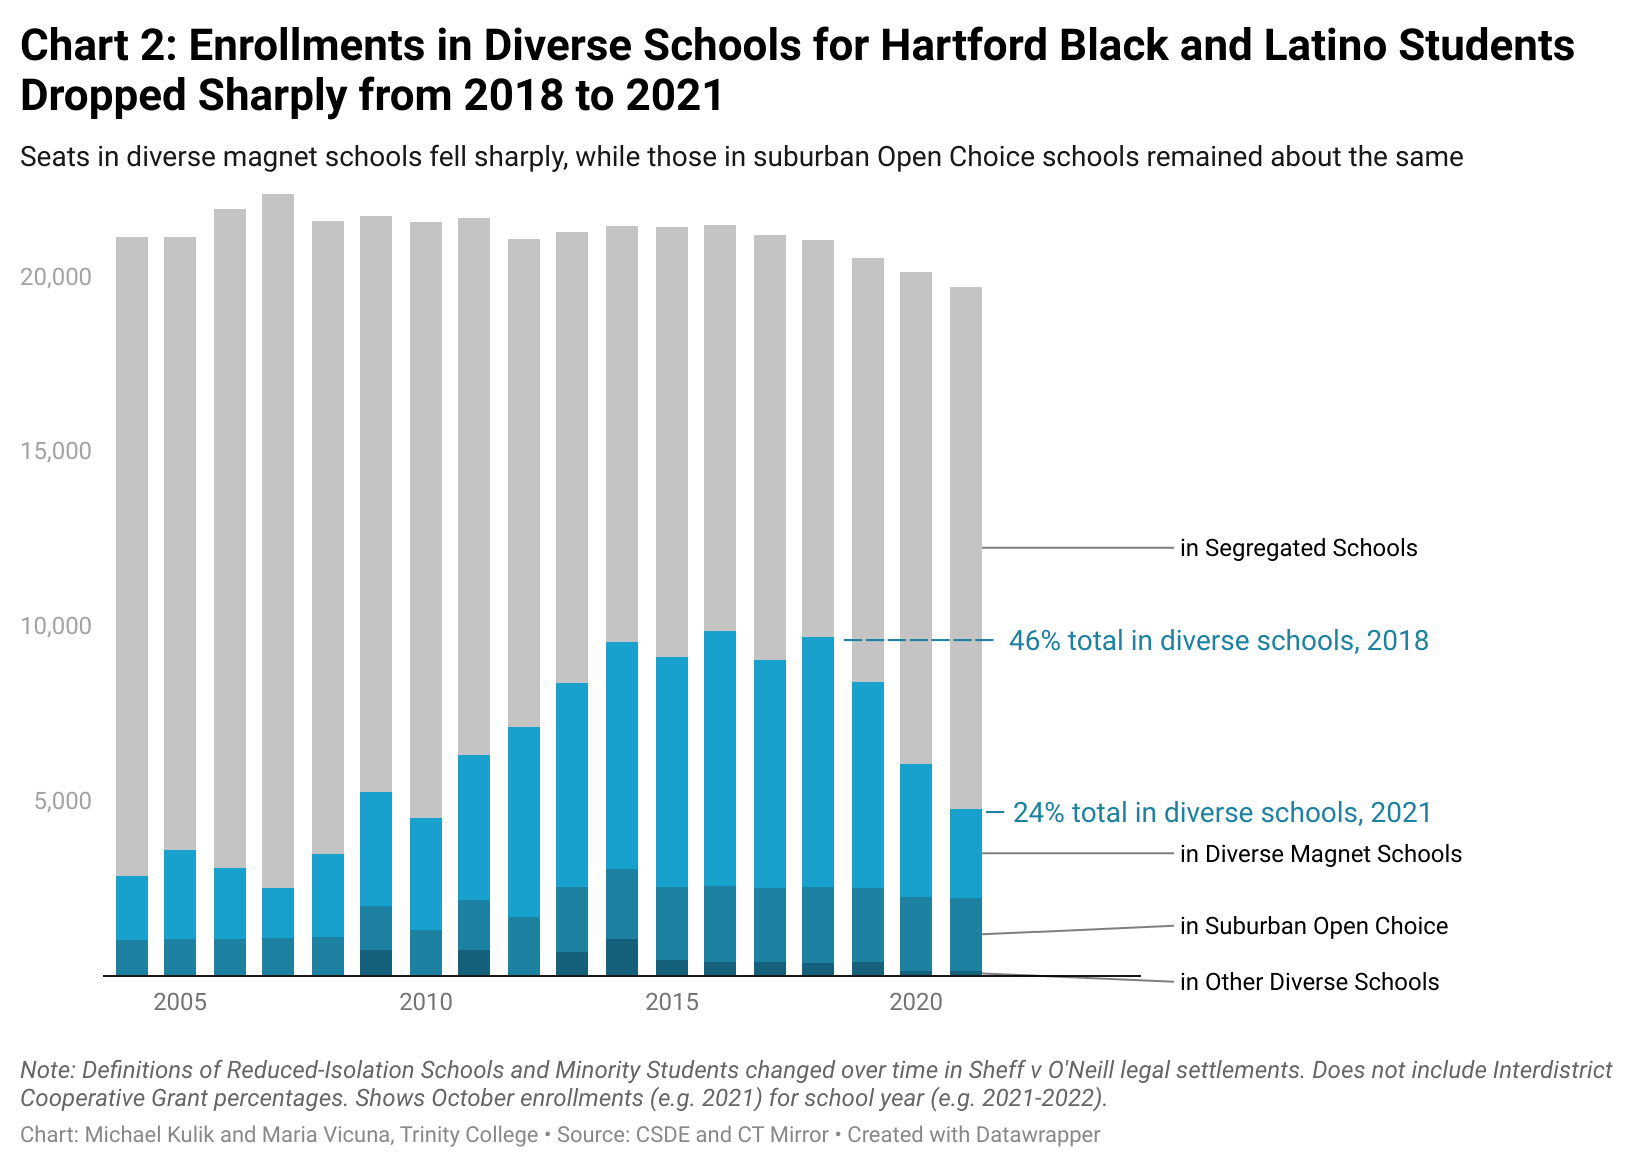
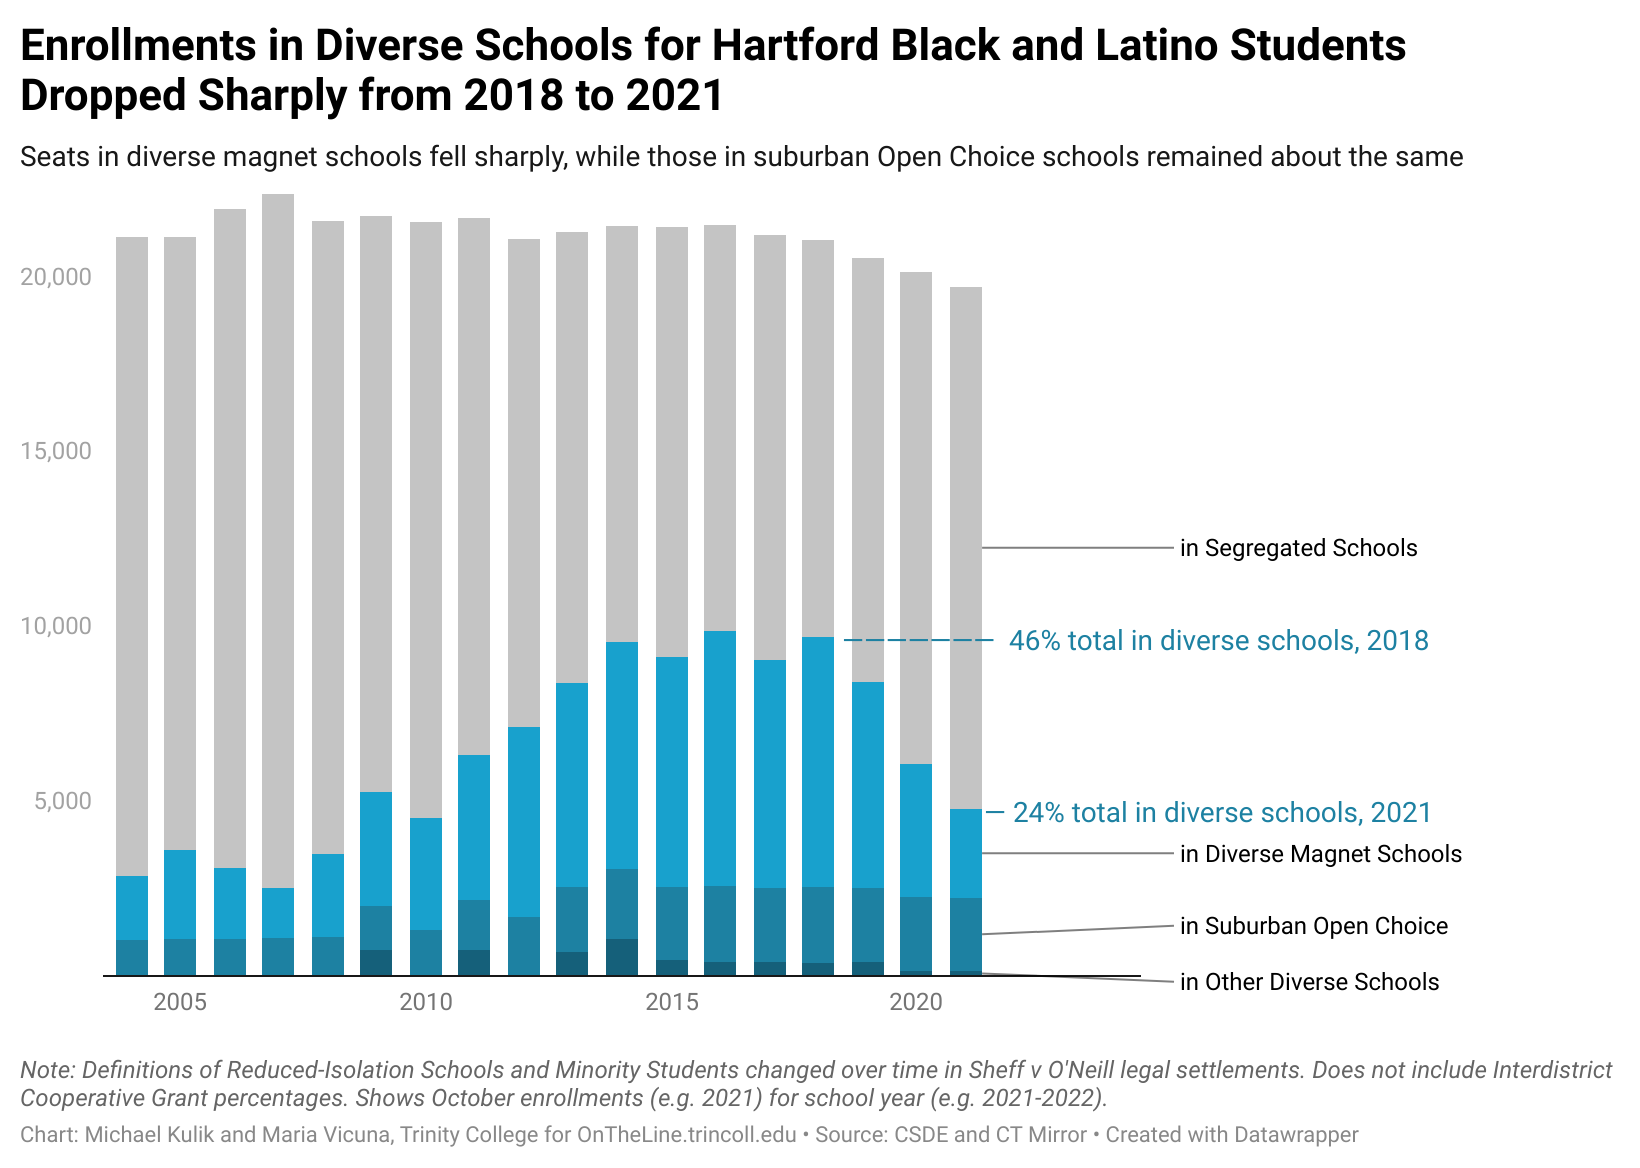
updated PNGs and links

Changed region(s): [[0.0, 0.0, 0.964, 0.0616], [0.3421, 0.9555, 0.8396, 0.9863]]

diff --git a/README.md b/README.md
@@ -1,10 +1,13 @@
 # otl-sheff-data
 Sheff v O'Neill school integration public data for OnTheLine.trincoll.edu book
 
+Learn more at <https://OnTheLine.trincoll.edu>
+
+To re-use visualizations (and credit the authors), go to the [Datawrapper River](https://app.datawrapper.de/river/) and search "ontheline" for items related to the [On The Line](https://ontheline.trincoll.edu) book-in-progress. To learn how to use the free Datawrapper data visualization tool, see [Chapter 6: Chart Your Data](https://handsondataviz.org/chart.html) in the open-access book by Jack Dougherty and Ilya Ilyankou, [Hands-On Data Visualization](https://handsondataviz.org), (2021).
 
 ## Meet Demand for Hartford Black and Latino Students in Diverse Schools, 2019-2021
 ![screenshot](2019-2021-meet-demand.png)
-- [interactive chart in Datawrapper](https://datawrapper.dwcdn.net/GkjCa/3/)
+- [interactive chart in Datawrapper](https://datawrapper.dwcdn.net/qeZTm/1/)
 - by OnTheLine.trincoll.edu
 - [Get the Data](2019-2021-meet-demand.csv)
 - Note: Sheff 2022 settlement measures demand as Hartford-resident Black and Latino students who apply to at least two magnet schools, or any combination of Open Choice, magnet schools, and tech schools. Chart shows estimates because data that meets demand definition is not yet publicly available. Year refers to lottery application period (e.g. early 2021) for the upcoming school year (e.g. 2021-2022).
@@ -13,7 +16,7 @@ Sheff v O'Neill school integration public data for OnTheLine.trincoll.edu book
 
 ## Hartford Black and Latino Students in Diverse Schools, 2004-2021
 ![screenshot](2004-2021-hartford-black-latino-diverse-schools.png)
-- [interactive chart in Datawrapper](https://datawrapper.dwcdn.net/0O6sz/3/)
+- [interactive chart in Datawrapper](https://datawrapper.dwcdn.net/wcDgI/1/)
 - by Michael Kulik '23 and Maria Vicuna '24, Trinity College
 - [Get the Data](2004-2021-hartford-black-latino-diverse-schools.csv)
 - Note: Definitions of Reduced-Isolation Schools and Minority Students changed over time in Sheff v O'Neill legal settlements. Does not include Interdistrict Cooperative Grant percentages. Shows October enrollments (e.g. 2021) for school year (e.g. 2021-2022).
@@ -23,7 +26,7 @@ Sheff v O'Neill school integration public data for OnTheLine.trincoll.edu book
 
 ## Socioeconomic Integration by Magnet School Incoming Enrollments, 2020  
 ![screenshot](2020-socioeconomic-integration-magnet-incoming.png)
-- [interactive chart in Datawrapper](https://datawrapper.dwcdn.net/yScl5/5/)
+- [interactive chart in Datawrapper](https://datawrapper.dwcdn.net/ckxTr/1/)
 - by Victoria Asfalg '23 and Joe He '24, Trinity College
 - [Get the Data](2020-socioeconomic-integration-magnet-incoming.csv)
 - Sheff 2022 definition: At least 30% high-income students, but no more than 60% low-income students, for incoming enrollments.
@@ -36,7 +39,7 @@ Sheff v O'Neill school integration public data for OnTheLine.trincoll.edu book
 
 ## Suburban Enrollments for Open Choice, 2022
 ![screenshot](2022-02-open-choice-by-district.png)
-- [interactive table in Datawrapper](https://datawrapper.dwcdn.net/Qrb7J/2/)
+- [interactive table in Datawrapper](https://datawrapper.dwcdn.net/g7UYm/1/)
 - by Azka Hassan '23 and Sophia Jones '24, Trinity College
 - [Get the Data](2022-02-open-choice-by-district.csv)
 - Note: As of February 2022, Open Choice enrolled 2,160 Hartford students in suburban schools, plus 85 suburban students in non-magnet Hartford Public Schools. Bloomfield, East Hartford, Manchester, New Britain, and Windsor School Districts are not eligible to receive Open Choice students from Hartford. Total enrollments from Oct 2021.
@@ -46,7 +49,7 @@ Sheff v O'Neill school integration public data for OnTheLine.trincoll.edu book
 
 ## Test Disparities by Race in Magnet Schools, 2018-19
 ![screenshot](2018-19-SBAC-math-goal-race-magnet.png)
-- [interactive chart in Datawrapper](https://datawrapper.dwcdn.net/FdI8o/2/)
+- [interactive chart in Datawrapper](https://datawrapper.dwcdn.net/K9q0M/2/)
 - by Daisy Li '24 and Teddy Komjathy '24, Trinity College
 - [Get the Data](2018-19-SBAC-math-goal-race-magnet.csv)
 - Note: Only selected magnet schools shown due to different tests by grade levels and data suppression for small groups. Based on most recently available disaggregated public data.
